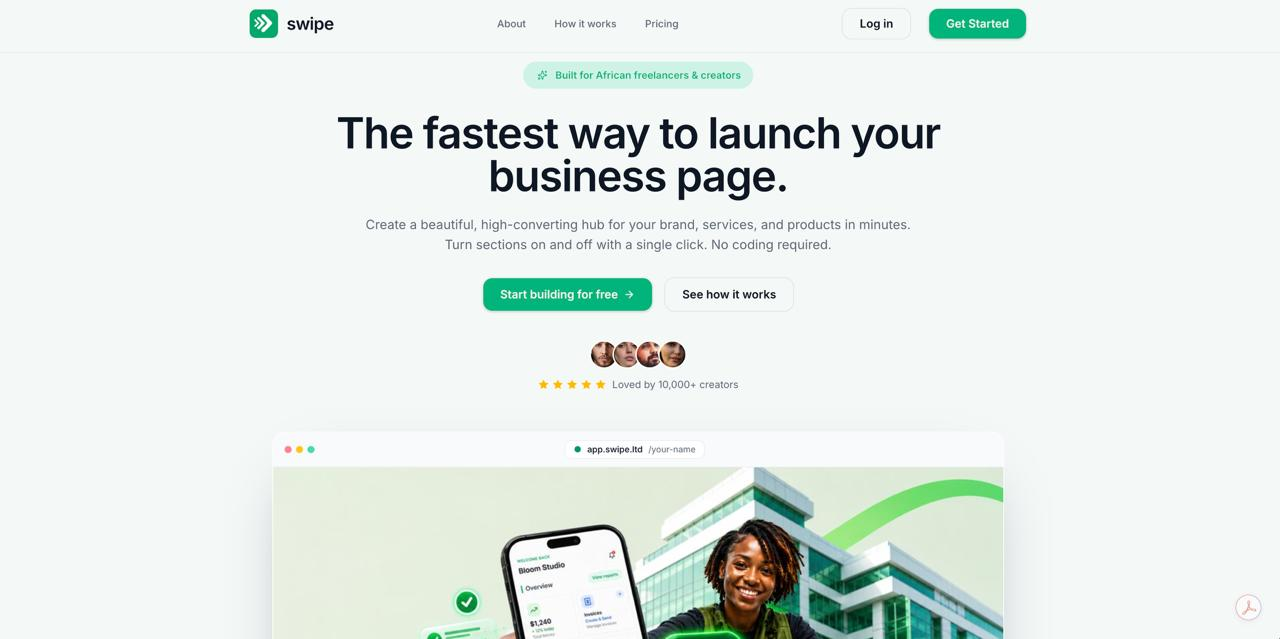
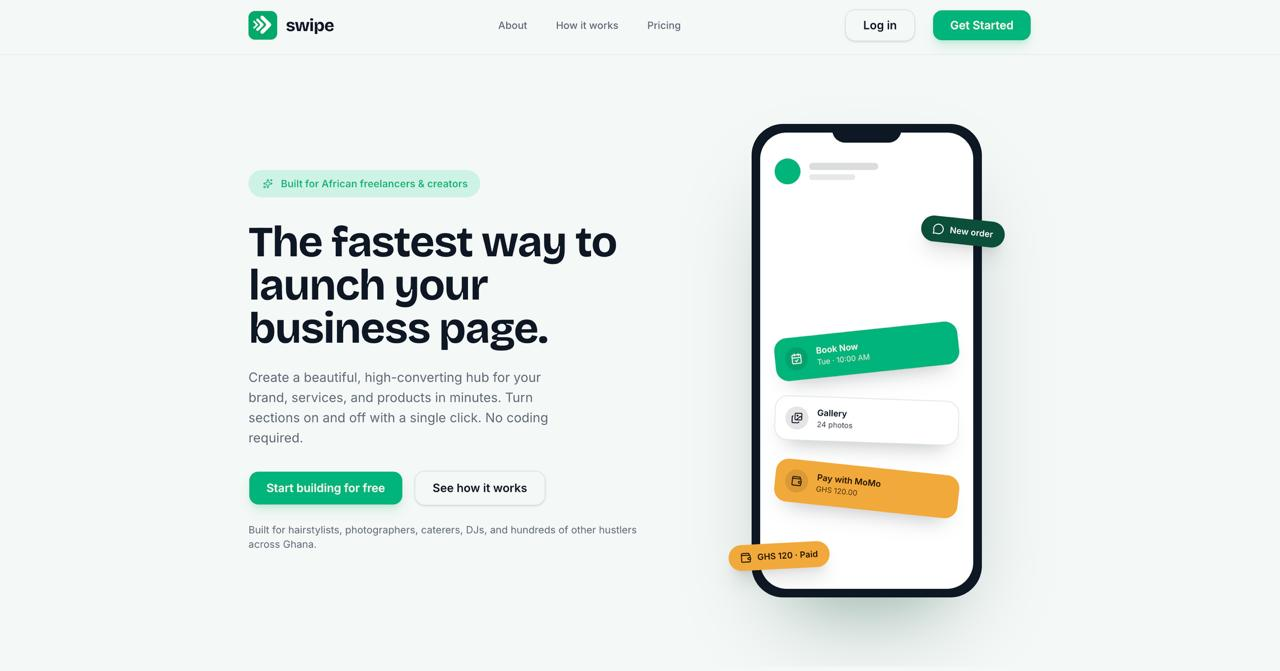
feat: update projects

diff --git a/projects.html b/projects.html
@@ -40,13 +40,11 @@
             { "@type": "ListItem", "position": 1, "name": "Yhelly", "url": "https://yhelly.com" },
             { "@type": "ListItem", "position": 2, "name": "Swipe", "url": "https://swipe.ltd/" },
             { "@type": "ListItem", "position": 3, "name": "LifeGuard", "url": "https://lifeguard-vert.vercel.app" },
-            { "@type": "ListItem", "position": 4, "name": "UniHive", "url": "https://uni-hive.vercel.app" },
-            { "@type": "ListItem", "position": 5, "name": "Filz Properties", "url": "https://fps-one.vercel.app/" },
-            { "@type": "ListItem", "position": 6, "name": "Casting Africa", "url": "https://casting.africa" },
-            { "@type": "ListItem", "position": 7, "name": "TFDI", "url": "https://www.theatrefordevelopmentinitiative.com/" },
-            { "@type": "ListItem", "position": 8, "name": "AppStract Labs", "url": "https://appstractlabs.io/" },
-            { "@type": "ListItem", "position": 9, "name": "SiteMix Pro", "url": "https://www.sitemixpro.com" },
-            { "@type": "ListItem", "position": 10, "name": "CSP", "url": "https://www.cspprocure.com" }
+            { "@type": "ListItem", "position": 4, "name": "Purview24", "url": "https://purview24.com" },
+            { "@type": "ListItem", "position": 5, "name": "UniHive", "url": "https://uni-hive.vercel.app" },
+            { "@type": "ListItem", "position": 6, "name": "Filz Properties", "url": "https://fps-one.vercel.app/" },
+            { "@type": "ListItem", "position": 7, "name": "Casting Africa", "url": "https://casting.africa" },
+            { "@type": "ListItem", "position": 8, "name": "DTI", "url": "https://www.theatrefordevelopmentinitiative.com/" }
           ]
         },
         {
@@ -113,6 +111,15 @@
                         <div class="project-preview"><img src="images/projects/lifeguard.jpg" alt="LifeGuard screenshot" loading="lazy"></div>
                     </div>
                 </div>
+
+                <div class="work-row work-row--no-date work-row--preview">
+                    <div class="work-details">
+                        <p class="work-line"><a href="https://purview24.com" target="_blank" rel="noopener">Purview24</a></p>
+                        <p class="work-meta">Multi-tenant ERP suite: Finance &amp; Accounting, HR/Payroll, and Inventory, with tenant admin and platform admin control panels; role-based permissions, Paystack billing, live FX rates. React, TypeScript, Flask, PostgreSQL, Paystack.</p>
+                        <div class="project-preview"><img src="images/projects/purview24.jpg" alt="Purview24 screenshot" loading="lazy"></div>
+                    </div>
+                </div>
+
                 <div class="work-row work-row--no-date work-row--preview">
                     <div class="work-details">
                         <p class="work-line"><a href="https://uni-hive.vercel.app" target="_blank" rel="noopener">UniHive</a> <a href="https://github.com/evansachie/UniHive" target="_blank" rel="noopener" class="work-gh">gh</a></p>
@@ -136,30 +143,9 @@
                 </div>
                 <div class="work-row work-row--no-date work-row--preview">
                     <div class="work-details">
-                        <p class="work-line"><a href="https://www.theatrefordevelopmentinitiative.com/" target="_blank" rel="noopener">TFDI</a> <a href="https://github.com/evansachie/tfdi-web" target="_blank" rel="noopener" class="work-gh">gh</a></p>
+                        <p class="work-line"><a href="https://www.theatrefordevelopmentinitiative.com/" target="_blank" rel="noopener">DTI</a> <a href="https://github.com/evansachie/dti-web" target="_blank" rel="noopener" class="work-gh">gh</a></p>
                         <p class="work-meta">NGO site for participatory theatre and community advocacy in Ghana; projects, blog, gallery, Paystack donations, contact and newsletter. Next.js, TypeScript, Tailwind CSS.</p>
-                        <div class="project-preview"><img src="images/projects/tfdi.jpg" alt="Theatre for Development Initiative screenshot" loading="lazy"></div>
-                    </div>
-                </div>
-                <div class="work-row work-row--no-date work-row--preview">
-                    <div class="work-details">
-                        <p class="work-line"><a href="https://appstractlabs.io/" target="_blank" rel="noopener">AppStract Labs</a></p>
-                        <p class="work-meta">Software agency landing page with service pages, case-study positioning, SEO, structured data, and conversion-focused CTAs. Next.js, TypeScript, Tailwind CSS.</p>
-                        <div class="project-preview"><img src="images/projects/appstractlabs.jpg" alt="AppStract Labs screenshot" loading="lazy"></div>
-                    </div>
-                </div>
-                <div class="work-row work-row--no-date work-row--preview">
-                    <div class="work-details">
-                        <p class="work-line"><a href="https://www.sitemixpro.com" target="_blank" rel="noopener">SiteMix Pro</a> <a href="https://github.com/evansachie/sitemixpro-web" target="_blank" rel="noopener" class="work-gh">gh</a></p>
-                        <p class="work-meta">On-site concrete batching & mixing company website; Next.js, TypeScript, Tailwind CSS.</p>
-                        <div class="project-preview"><img src="images/projects/sitemix.jpg" alt="SiteMix Pro screenshot" loading="lazy"></div>
-                    </div>
-                </div>
-                <div class="work-row work-row--no-date work-row--preview">
-                    <div class="work-details">
-                        <p class="work-line"><a href="https://www.cspprocure.com" target="_blank" rel="noopener">CSP</a> <a href="https://github.com/evansachie/csp-web" target="_blank" rel="noopener" class="work-gh">gh</a></p>
-                        <p class="work-meta">Global procurement and supply chain company website; Next.js, TypeScript, Tailwind CSS, Google Sheets API</p>
-                        <div class="project-preview"><img src="images/projects/csp.jpg" alt="CSP screenshot" loading="lazy"></div>
+                        <div class="project-preview"><img src="images/projects/dti.jpg" alt="Theatre for Development Initiative screenshot" loading="lazy"></div>
                     </div>
                 </div>
             </div>
